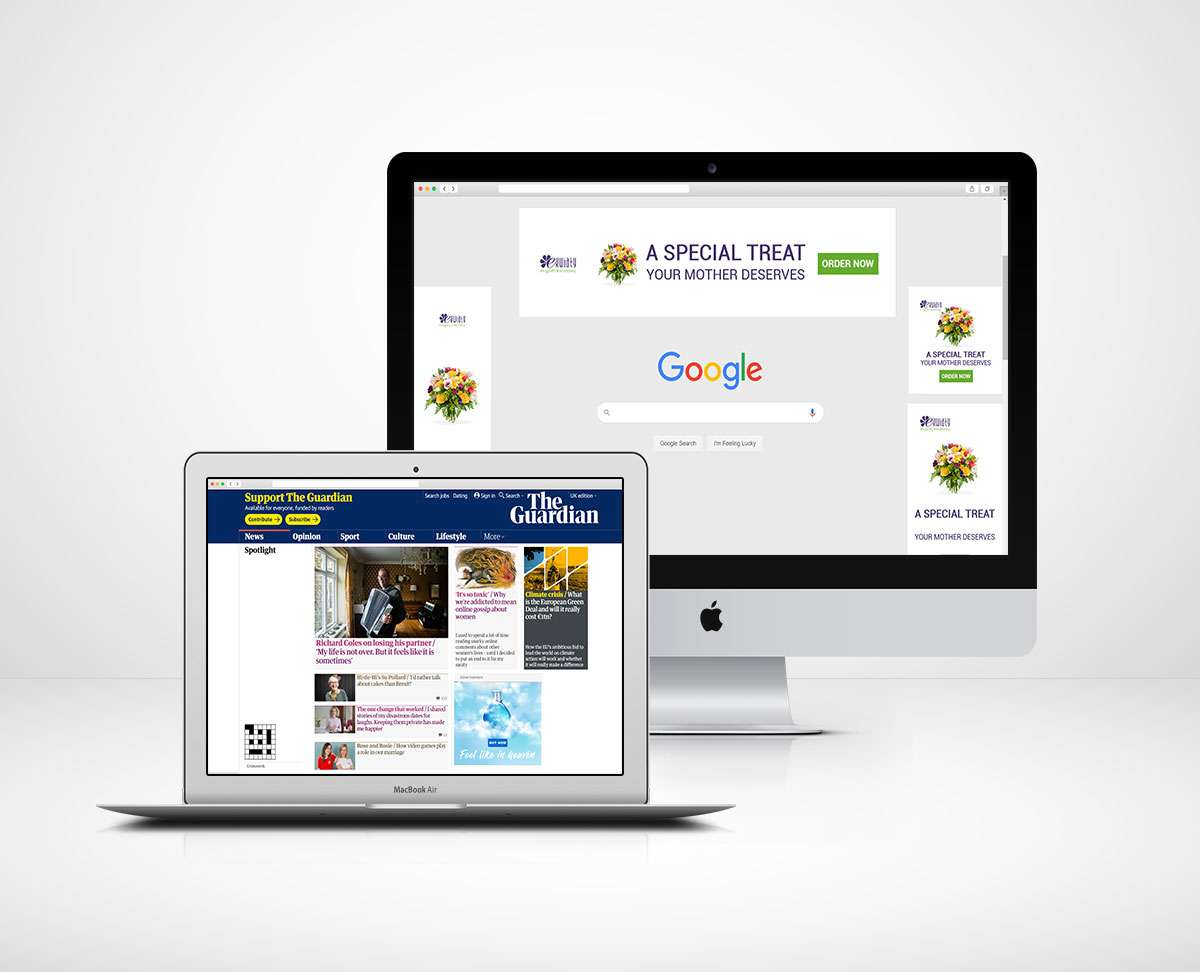
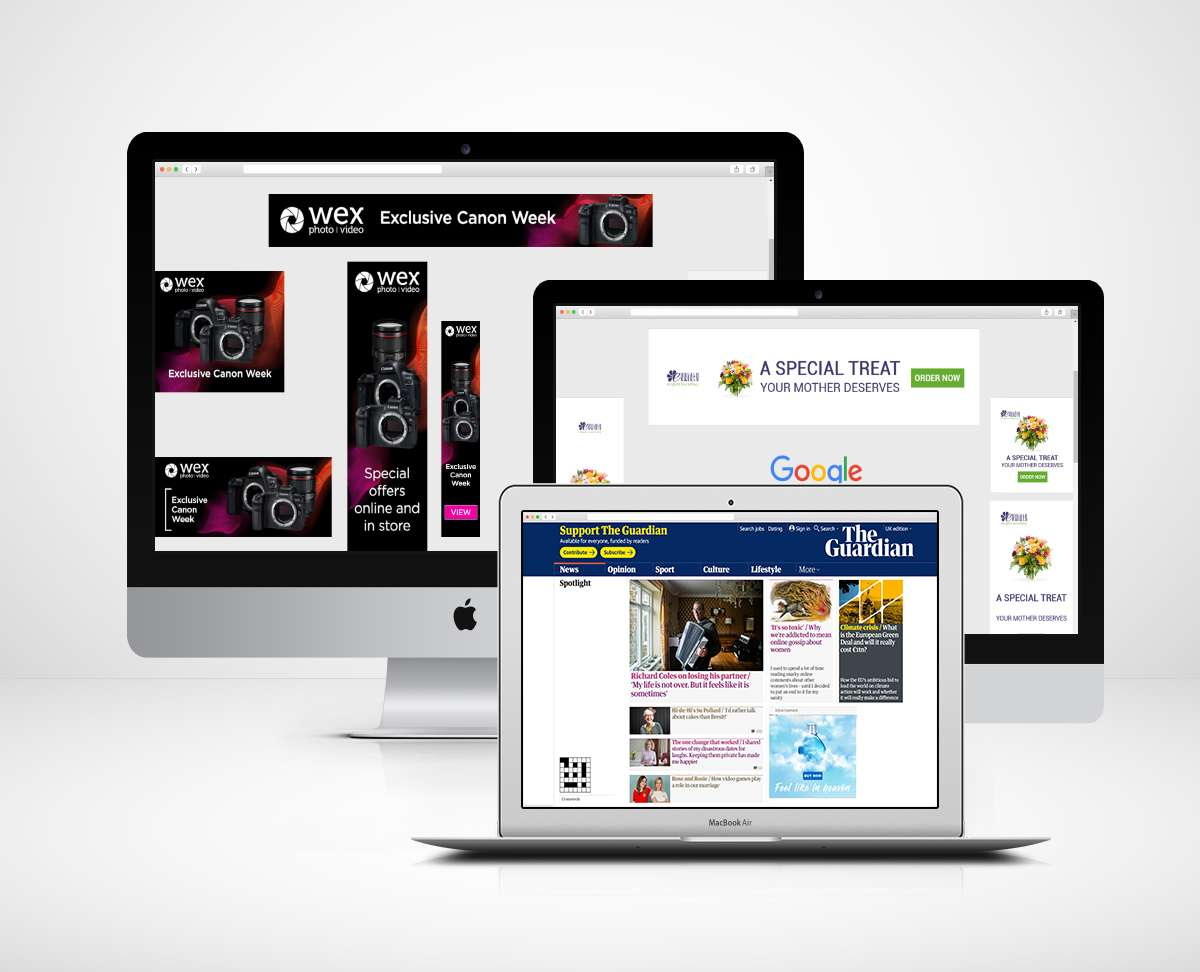
Online advertisement new image and headline.

diff --git a/index.html b/index.html
@@ -312,7 +312,7 @@
                         <img class="card-img-top img-fluid project" src="images/optimised/animation-gwd-ads.jpg" alt="Google Web Designer Ads">
                     
                         <div class="card-body">
-                            <p class="card-title">Online advertisement</p>
+                            <p class="card-title">Online gif ads and html banners</p>
                             <p class="card-cta">Watch it ></p>
                         </div>
                     </a>
